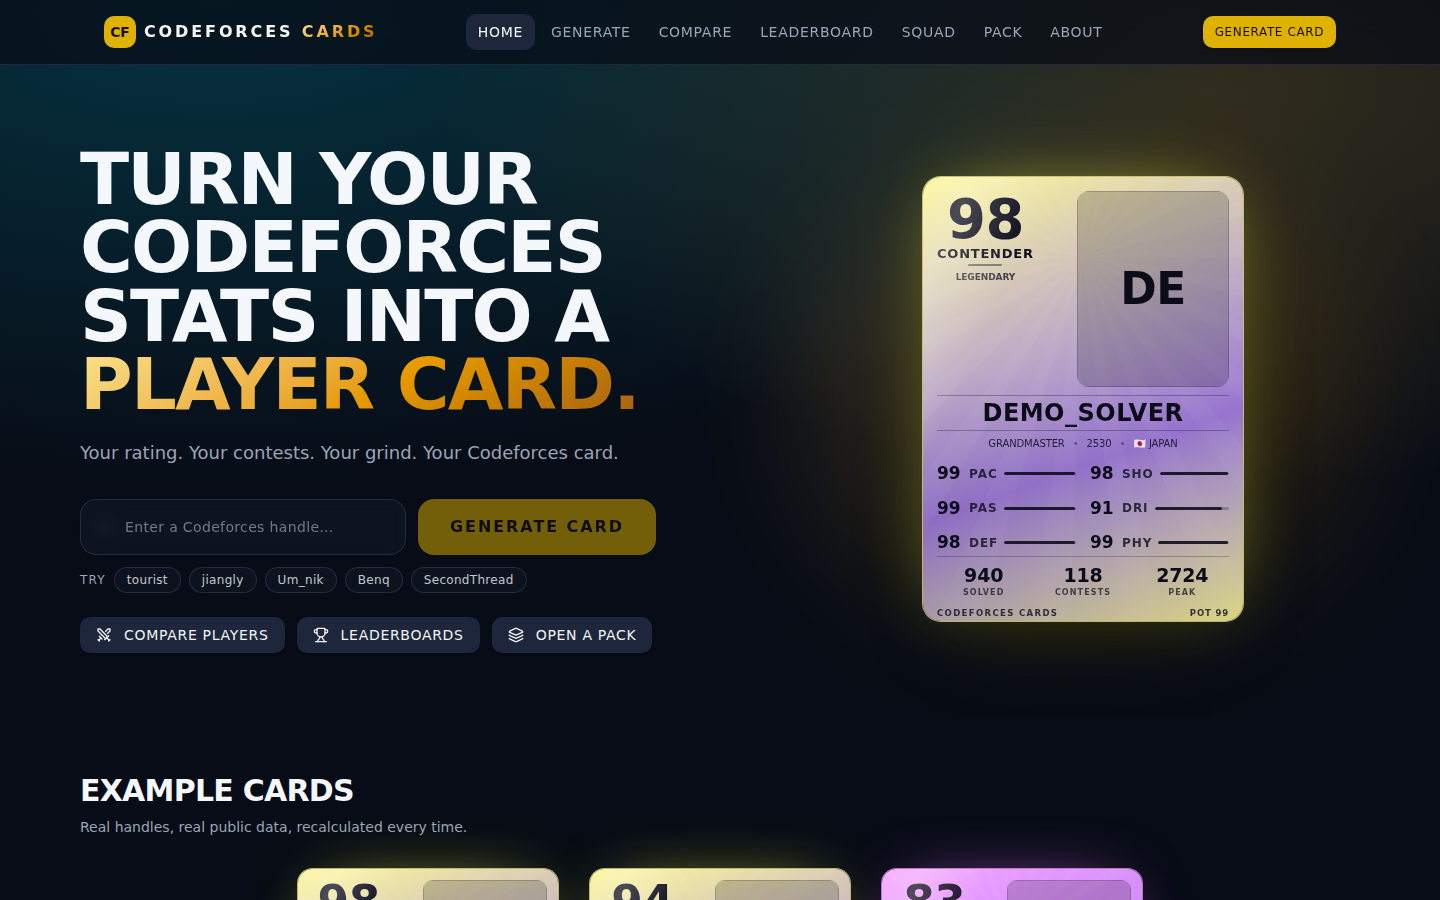
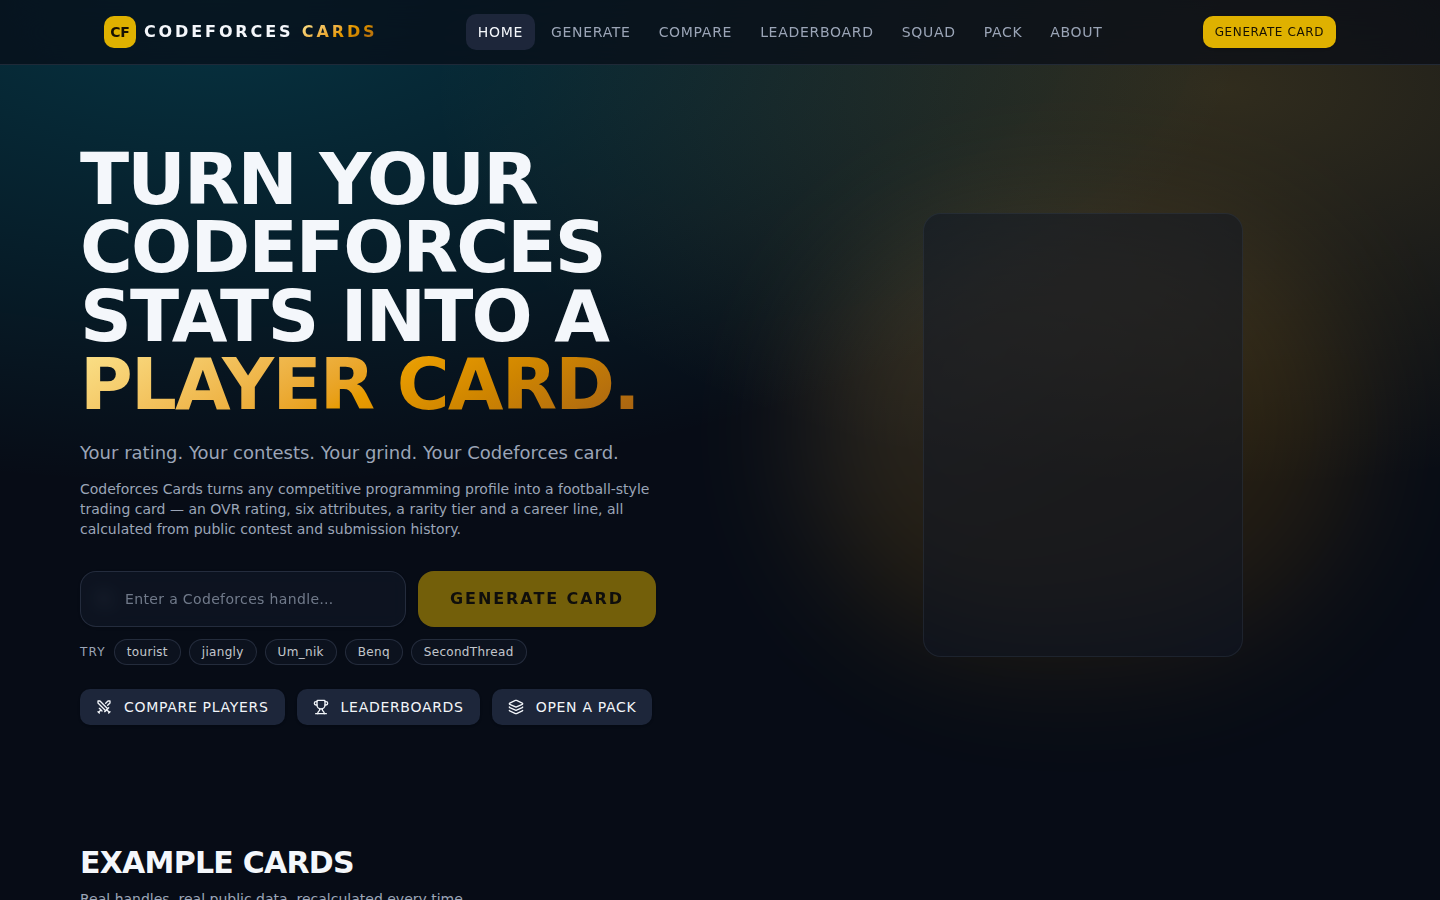
Replace the disclaimer with a real footer, and make the site indexable
The footer was one apologetic sentence. It is now a proper site footer:
what the project is, where the pages are, links to the source, the API and
the issue tracker, and a copyright line. The fan-project framing and the
football-publisher line are gone; "Independent project" remains, because with
the site named Codeforces Cards and built on Codeforces data, saying nothing
at all reads as an official Codeforces product.

Search visibility, which was close to zero and largely for one structural
reason: GitHub Pages answers unknown paths with 404.html and an HTTP 404
status, and nothing that returns 404 gets indexed — so every route except the
home page was invisible no matter what its markup said. The build now writes a
real index.html per static route, plus sitemap.xml.

Also added: canonical links, absolute Open Graph and Twitter tags with a
generated 1200x630 preview image, a Sitemap line in robots.txt, and prose on
the home page that names what the site does — a slogan gives a crawler nothing
to match a query against.

The deploy passes SITE_URL/VITE_SITE_URL, since a static build has no request
to derive an absolute URL from.

Leaderboard tests now scope their row selector to <main>: the new footer has
lists of its own.

Claude-Session: https://claude.ai/code/session_01Xj6PYyHX2xiNShRNVfJFbr

Changed region(s): [[0.625, 0.1556, 0.875, 0.7156], [0.0312, 0.5289, 0.4688, 0.8089], [0.0312, 0.84, 0.8125, 1.0]]

diff --git a/src/components/site/Nav.tsx b/src/components/site/Nav.tsx
@@ -88,15 +88,87 @@ export function Nav() {
   );
 }
 
+const FOOTER_LINKS = [
+  { to: "/generate", label: "Generate a card" },
+  { to: "/leaderboard", label: "Leaderboard" },
+  { to: "/compare", label: "Compare players" },
+  { to: "/pack", label: "Open a pack" },
+  { to: "/squad", label: "Build a squad" },
+  { to: "/about", label: "How it works" },
+] as const;
+
 export function Footer() {
   return (
-    <footer className="mt-10 border-t border-border/50 py-5">
-      <div className="mx-auto max-w-7xl space-y-1 px-4 text-center text-[11px] leading-5 text-muted-foreground sm:px-6">
-        <p className="font-display uppercase text-foreground/70">Codeforces Cards</p>
-        <p>
-          Unofficial fan project. Stats come from the public Codeforces API. Not affiliated with
-          Codeforces or any football-game publisher.
-        </p>
+    <footer className="mt-16 border-t border-border/50">
+      <div className="mx-auto grid max-w-7xl gap-8 px-4 py-10 sm:grid-cols-2 sm:px-6 lg:grid-cols-4">
+        <div className="lg:col-span-2">
+          <p className="font-display text-sm font-bold uppercase tracking-widest">
+            Codeforces Cards
+          </p>
+          <p className="mt-3 max-w-sm text-sm leading-6 text-muted-foreground">
+            Competitive-programming player cards built from real contest history. Every rating is
+            calculated from public Codeforces data — the same handle always produces the same card.
+          </p>
+        </div>
+
+        <nav aria-label="Footer" className="text-sm">
+          <p className="font-display text-xs font-semibold uppercase tracking-widest">Explore</p>
+          <ul className="mt-3 space-y-2">
+            {FOOTER_LINKS.map((l) => (
+              <li key={l.to}>
+                <Link
+                  to={l.to}
+                  className="text-muted-foreground transition-colors hover:text-foreground"
+                >
+                  {l.label}
+                </Link>
+              </li>
+            ))}
+          </ul>
+        </nav>
+
+        <div className="text-sm">
+          <p className="font-display text-xs font-semibold uppercase tracking-widest">Project</p>
+          <ul className="mt-3 space-y-2 text-muted-foreground">
+            <li>
+              <a
+                href="https://github.com/Nandansai08/cf-cards"
+                className="transition-colors hover:text-foreground"
+                rel="noreferrer"
+                target="_blank"
+              >
+                Source on GitHub
+              </a>
+            </li>
+            <li>
+              <a
+                href="https://codeforces.com/apiHelp"
+                className="transition-colors hover:text-foreground"
+                rel="noreferrer"
+                target="_blank"
+              >
+                Codeforces API
+              </a>
+            </li>
+            <li>
+              <a
+                href="https://github.com/Nandansai08/cf-cards/issues"
+                className="transition-colors hover:text-foreground"
+                rel="noreferrer"
+                target="_blank"
+              >
+                Report an issue
+              </a>
+            </li>
+          </ul>
+        </div>
+      </div>
+
+      <div className="border-t border-border/50">
+        <div className="mx-auto flex max-w-7xl flex-wrap items-center justify-between gap-2 px-4 py-4 text-xs text-muted-foreground sm:px-6">
+          <p>© {new Date().getFullYear()} Codeforces Cards</p>
+          <p>Independent project · Data from the public Codeforces API</p>
+        </div>
       </div>
     </footer>
   );

diff --git a/src/routes/__root.tsx b/src/routes/__root.tsx
@@ -74,6 +74,17 @@ function ErrorComponent({ error, reset }: { error: Error; reset: () => void }) {
   );
 }
 
+/**
+ * Absolute origin + base path of the deployed site.
+ *
+ * Open Graph, canonical links and the sitemap all need absolute URLs, and the
+ * prerendered shell is built with no request to derive one from — so the
+ * deploy passes it in and this is the local default.
+ */
+const SITE_URL = (
+  import.meta.env["VITE_SITE_URL"] ?? "https://nandansai08.github.io/cf-cards"
+).replace(/\/+$/, "");
+
 export const Route = createRootRouteWithContext<{ queryClient: QueryClient }>()({
   head: () => ({
     meta: [
@@ -83,10 +94,16 @@ export const Route = createRootRouteWithContext<{ queryClient: QueryClient }>()(
       {
         name: "description",
         content:
-          "Turn any Codeforces handle into a collectible Ultimate-Team style player card with OVR, attributes and rarity.",
+          "Turn any Codeforces handle into a football-style player card: OVR, six attributes, rarity and badges, all calculated from public contest data.",
       },
       { property: "og:type", content: "website" },
+      { property: "og:site_name", content: "Codeforces Cards" },
+      { property: "og:url", content: SITE_URL },
+      { property: "og:image", content: `${SITE_URL}/og.png` },
+      { property: "og:image:width", content: "1200" },
+      { property: "og:image:height", content: "630" },
       { name: "twitter:card", content: "summary_large_image" },
+      { name: "twitter:image", content: `${SITE_URL}/og.png` },
     ],
     links: [
       { rel: "stylesheet", href: appCss },
@@ -97,6 +114,7 @@ export const Route = createRootRouteWithContext<{ queryClient: QueryClient }>()(
         href: "https://fonts.googleapis.com/css2?family=Chakra+Petch:wght@500;600;700&family=Manrope:wght@400;500;600;700&display=swap",
       },
       { rel: "icon", href: `${import.meta.env.BASE_URL}favicon.ico`, type: "image/x-icon" },
+      { rel: "canonical", href: SITE_URL },
     ],
   }),
   shellComponent: RootShell,

diff --git a/src/routes/index.tsx b/src/routes/index.tsx
@@ -14,7 +14,7 @@ export const Route = createFileRoute("/")({
       {
         name: "description",
         content:
-          "Enter a Codeforces handle and get a collectible Ultimate-Team style player card: OVR, six attributes, rarity, badges and achievements from real contest data.",
+          "Enter a Codeforces handle and get a football-style player card: an OVR rating, six attributes, a rarity tier, badges and achievements, all calculated from real contest and submission history.",
       },
       { property: "og:title", content: "Codeforces Cards — Your Codeforces Player Card" },
       {
@@ -46,6 +46,13 @@ function Landing() {
             </h1>
             <p className="mt-5 max-w-xl text-base text-muted-foreground sm:text-lg">
               Your rating. Your contests. Your grind. Your Codeforces card.
+            </p>
+            {/* Plain prose naming what this is. The hero above is a slogan, and
+                a slogan gives a search engine nothing to match a query to. */}
+            <p className="mt-3 max-w-xl text-sm text-muted-foreground">
+              Codeforces Cards turns any competitive programming profile into a football-style
+              trading card — an OVR rating, six attributes, a rarity tier and a career line, all
+              calculated from public contest and submission history.
             </p>
             <div className="mt-8 max-w-xl">
               <HandleForm onSubmit={go} />

diff --git a/tests/screenshots.spec.ts b/tests/screenshots.spec.ts
@@ -2,7 +2,8 @@ import { test } from "@playwright/test";
 import { stubCodeforces } from "./fixtures/codeforces";
 
 /**
- * Not a test — this regenerates the images in README.md.
+ * Not a test — this regenerates the images in README.md, plus the social
+ * preview card that link unfurls use.
  *
  *   npm run screenshots
  *
@@ -41,6 +42,19 @@ test.describe("desktop", () => {
     await page.waitForLoadState("networkidle");
     await page.waitForTimeout(1500);
     await page.screenshot({ path: `${OUT}/compare.png` });
+  });
+});
+
+test.describe("social", () => {
+  // 1200x630 is what Open Graph and Twitter cards are cropped to; anything
+  // else gets letterboxed or cut by the platforms.
+  test.use({ viewport: { width: 1200, height: 630 }, deviceScaleFactor: 1 });
+
+  test("og", async ({ page }) => {
+    await page.goto("/");
+    await page.waitForLoadState("networkidle");
+    await page.waitForTimeout(1500);
+    await page.screenshot({ path: "public/og.png" });
   });
 });
 

diff --git a/tests/leaderboard.spec.ts b/tests/leaderboard.spec.ts
@@ -32,7 +32,7 @@ test("ranks the cards generated on this device", async ({ page }) => {
 
   await page.goto("/leaderboard");
 
-  const rows = page.locator("ul > li");
+  const rows = page.locator("main ul > li");
   await expect(rows).toHaveCount(2);
   // demo_solver is by far the strongest of the three, so it leads on OVR.
   await expect(rows.first()).toContainText(/demo_solver/i);
@@ -47,5 +47,5 @@ test("featured players only offer the ranking their data supports", async ({ pag
   // offer here — showing an empty "Highest OVR" table would just look broken.
   await expect(page.getByRole("button", { name: "Highest rating" })).toBeVisible();
   await expect(page.getByRole("button", { name: "Highest OVR" })).toHaveCount(0);
-  await expect(page.locator("ul > li").first()).toBeVisible();
+  await expect(page.locator("main ul > li").first()).toBeVisible();
 });

diff --git a/README.md b/README.md
@@ -197,5 +197,18 @@ Found a security problem? Please report it privately — see
 
 ## Notes
 
-Unofficial fan project. Not affiliated with Codeforces or with any football-game
-publisher. The card design is original and inspired by collectible sports cards.
+Independent project. Data comes from the public Codeforces API; the card design
+is original and inspired by collectible sports cards.
+
+### Search visibility
+
+`npm run build:pages` writes a real `index.html` for every static route, because
+GitHub Pages serves `404.html` with an HTTP 404 status and search engines do not
+index a page that answers 404 — without those files only the home page was
+indexable. It also writes `sitemap.xml` from `SITE_URL`.
+
+Two things are worth knowing. `robots.txt` is only honoured at the origin root,
+so `…github.io/cf-cards/robots.txt` is ignored by crawlers — submit the sitemap
+in Google Search Console instead, or move the site to a custom domain. And no
+amount of markup substitutes for being linked to: a new site with no inbound
+links takes weeks to rank for anything.
